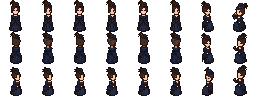
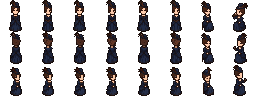
마감재 18종 추가, 옆모습 걷는 방향 수정
- 바닥 +7 (자갈 포석, 헤링본 벽돌, 쪽모이 원목, 육각 타일, 증기 그레이팅, 페르시아 융단, 황동 모자이크)
- 벽 +6 (녹슨 철판, 줄무늬 벽지, 흰 지하철 타일, 현창 황동벽, 서가 벽, 톱니 장식 벽)
- 천장 +5 (노출 덕트, 황동 압착판, 격자 우물천장, 톱니 천장, 하늘 프레스코), 천장도 변형 2종
- 일부 생성 시트의 옆모습이 왼쪽을 보고 있어 NPC 가 뒷걸음질쳤다.
  import_chars 가 얼굴 방향을 재서 옆모습을 자동으로 오른쪽으로 맞추고,
  판정이 안 맞는 대장장이(남)는 수동 지정

Claude-Session: https://claude.ai/code/session_01GLddWFGhu19UdYDuzdKUFY

Changed region(s): [[0.9062, 0.6562, 0.9688, 0.9688], [0.7812, 0.7188, 0.8438, 1.0]]

diff --git a/js/sprites.js b/js/sprites.js
@@ -135,6 +135,70 @@ const FLOOR_ART = {
     while (y < 16) { P.p(x, y, PAL.s3); if (hash(x, y, v) > 0.5) P.p(x + 1, y, PAL.cr0); x += hash(x, y, 77) > 0.5 ? 1 : -1; x = (x + 16) % 16; y++; }
     P.r(0, 15, 16, 1, PAL.cr0); P.r(15, 0, 1, 16, PAL.cr0);
   },
+  // ── 추가 바닥재 ──
+  cobble(P, v) {
+    P.r(0, 0, 16, 16, '#3e3530');
+    for (let row = 0; row < 4; row++) {
+      const off = (row + v) % 2 ? 2 : 0;
+      for (let x = -off; x < 16; x += 4) {
+        const c = ['#7a6a5c', '#8a7866', '#6c5e52', '#94826e'][Math.floor(hash(x + 7, row, v + 3) * 4)];
+        const x0 = Math.max(0, x), w = Math.min(3, 3 + x) - (x0 - x);
+        if (w > 0) { P.r(x0, row * 4, w, 3, c); P.p(x0, row * 4, '#a8967e'); }
+      }
+    }
+  },
+  brickfloor(P, v) {
+    P.r(0, 0, 16, 16, '#4a2a20');
+    for (let y = 0; y < 16; y += 4) for (let x = 0; x < 16; x += 4) {
+      const vert = ((x + y) / 4) % 2 === 0;
+      const c = ['#9a4a32', '#a85a3c', '#8a3e2a'][Math.floor(hash(x, y, v + 11) * 3)];
+      if (vert) { P.r(x, y, 3, 1, c); P.r(x, y + 1, 3, 2, c); } else { P.r(x, y, 1, 3, c); P.r(x + 1, y, 2, 3, c); }
+      P.p(x, y, '#c07050');
+    }
+  },
+  parquet(P) {
+    // 바구니 짜임: 4x4 블록마다 결 방향이 바뀐다
+    for (let by = 0; by < 4; by++) for (let bx = 0; bx < 4; bx++) {
+      const h = (bx + by) % 2 === 0, base = (bx * 3 + by) % 2 ? PAL.w3 : '#9a6a3e';
+      P.r(bx * 4, by * 4, 4, 4, base);
+      for (let k = 0; k < 4; k += 2) h ? P.r(bx * 4, by * 4 + k, 4, 1, PAL.w2) : P.r(bx * 4 + k, by * 4, 1, 4, PAL.w2);
+      P.p(bx * 4 + 3, by * 4 + 3, PAL.w0);
+    }
+  },
+  hextile(P) {
+    // 8x8 팔각 타일을 줄마다 반 칸 어긋나게 → 육각 무늬처럼 보인다
+    for (let y = 0; y < 16; y++) for (let x = 0; x < 16; x++) {
+      const row = y >> 3, lx = (x + (row % 2) * 4) % 8, ly = y % 8;
+      const edge = (ly === 0 && lx >= 2 && lx <= 5) || (lx === 0 && ly >= 2 && ly <= 5) ||
+        (lx + ly === 1) || (lx - ly === 6) || (ly - lx === 6) || (lx + ly === 13) || (lx === 7 && ly === 7) || (lx === 0 && ly === 0);
+      const tone = ((x + (row % 2) * 4) >> 3) % 3 === 0 ? '#c9d8cc' : PAL.cr1;
+      P.p(x, y, edge ? '#7a6e5c' : (ly <= 2 && lx >= 2 && lx <= 4 ? PAL.cr2 : tone));
+    }
+  },
+  steamgrate(P) {
+    P.r(0, 0, 16, 16, PAL.i0);
+    for (let y = 1; y < 16; y += 3) { P.r(1, y, 14, 2, '#2a1610'); P.r(1, y, 14, 1, '#5a2a14'); }
+    P.r(0, 0, 16, 1, PAL.i3); P.r(0, 15, 16, 1, PAL.i1); P.r(0, 0, 1, 16, PAL.i2); P.r(15, 0, 1, 16, PAL.i1);
+    for (let y = 2; y < 16; y += 3) for (let x = 3; x < 15; x += 4) P.p(x, y, PAL.i2);
+    P.p(1, 1, PAL.b3); P.p(14, 1, PAL.b3); P.p(1, 14, PAL.b3); P.p(14, 14, PAL.b3);
+  },
+  rug(P) {
+    P.r(0, 0, 16, 16, '#1e2a4e');
+    P.r(0, 0, 16, 2, PAL.red1); P.r(0, 14, 16, 2, PAL.red1); P.r(0, 0, 2, 16, PAL.red1); P.r(14, 0, 2, 16, PAL.red1);
+    P.r(2, 2, 12, 1, PAL.b2); P.r(2, 13, 12, 1, PAL.b2); P.r(2, 2, 1, 12, PAL.b2); P.r(13, 2, 1, 12, PAL.b2);
+    for (let i = 0; i < 3; i++) { P.p(8 - i, 5 + i, PAL.red2); P.p(7 + i, 5 + i, PAL.red2); P.p(8 - i, 10 - i, PAL.red2); P.p(7 + i, 10 - i, PAL.red2); }
+    P.r(7, 7, 2, 2, PAL.b3);
+    P.noise(3, 3, 10, 10, ['#2a3a62', '#18213e'], 0.15, 21);
+  },
+  mosaic(P) {
+    const cols = [PAL.v2, PAL.b2, PAL.cr2, PAL.v1, PAL.b3];
+    for (let y = 0; y < 16; y += 2) for (let x = 0; x < 16; x += 2) {
+      const d = Math.abs(x - 7) + Math.abs(y - 7);
+      const c = d < 3 ? PAL.b3 : d < 6 ? PAL.v2 : d < 9 ? cols[(x + y) % 3 + 2] : (x + y) % 4 ? PAL.cr1 : PAL.b1;
+      P.r(x, y, 2, 2, c); P.p(x + 1, y + 1, '#00000022');
+    }
+    P.r(0, 15, 16, 1, PAL.b0); P.r(15, 0, 1, 16, PAL.b0);
+  },
 };
 
 // ───────────── 벽 ─────────────
@@ -181,6 +245,51 @@ const WALL_ART = {
     }
     P.r(1, 4, 1, 12, PAL.b1); P.r(14, 4, 1, 12, PAL.b1);
   },
+  // ── 추가 벽 마감 ──
+  rustplate(P) {
+    wallCap(P);
+    P.r(0, 4, 16, 12, PAL.i1);
+    P.noise(0, 4, 16, 12, ['#8a4a22', '#a85e2a', '#6a3418', PAL.i2], 0.45, 33);
+    P.r(0, 9, 16, 1, PAL.i0); P.rivets(1, 5, 15, 5, PAL.i3, PAL.i0); P.rivets(1, 11, 15, 5, PAL.i3, PAL.i0);
+    P.r(5, 10, 1, 4, '#5a2a14'); P.r(11, 5, 1, 3, '#5a2a14');
+  },
+  stripe(P) {
+    wallCap(P);
+    for (let x = 0; x < 16; x++) P.r(x, 4, 1, 8, Math.floor(x / 2) % 2 ? PAL.cr1 : PAL.red1);
+    P.r(0, 4, 16, 1, PAL.b1);
+    P.r(0, 12, 16, 4, PAL.w1); P.r(0, 12, 16, 1, PAL.w3); P.r(4, 13, 1, 3, PAL.w0); P.r(11, 13, 1, 3, PAL.w0);
+  },
+  subway(P) {
+    wallCap(P);
+    P.r(0, 4, 16, 12, '#a8a29a');
+    for (let row = 0; row < 4; row++) {
+      const y = 4 + row * 3, off = row % 2 ? 4 : 0;
+      for (let x = -off; x < 16; x += 8) { const x0 = Math.max(0, x); P.r(x0, y, Math.min(7, 7 + x) - (x0 - x), 2, PAL.wh); P.p(x0 + 1, y, '#ffffff'); }
+    }
+    P.r(0, 14, 16, 2, '#2e5a52'); P.r(0, 14, 16, 1, '#4f8a7a');
+  },
+  porthole(P) {
+    wallCap(P);
+    P.r(0, 4, 16, 12, PAL.b1); P.r(0, 4, 16, 1, PAL.b3);
+    P.disc(8, 10, 5, PAL.k); P.disc(8, 10, 4, PAL.b2); P.disc(8, 10, 3, '#4a7fb5'); P.r(6, 8, 2, 1, PAL.bl3); P.p(7, 9, PAL.wh);
+    for (let a = 0; a < 6; a++) { const ang = a * Math.PI / 3; P.p(Math.round(8 + Math.cos(ang) * 5), Math.round(10 + Math.sin(ang) * 5), PAL.b4); }
+    P.p(1, 5, PAL.b4); P.p(14, 5, PAL.b4); P.p(1, 14, PAL.b4); P.p(14, 14, PAL.b4);
+  },
+  bookwall(P) {
+    wallCap(P);
+    P.r(0, 4, 16, 12, PAL.w0);
+    const books = [PAL.red2, PAL.g2, PAL.bl1, PAL.b2, PAL.pu1, PAL.c2, PAL.cr1];
+    [4, 10].forEach((y, r) => {
+      for (let x = 0; x < 16; x++) if (hash(x, r, 5) > 0.12) P.r(x, y + (hash(x, r, 2) > 0.7 ? 1 : 0), 1, 5 - (hash(x, r, 2) > 0.7 ? 1 : 0), books[Math.floor(hash(x, r, 9) * books.length)]);
+      P.r(0, y + 5, 16, 1, PAL.w2);
+    });
+  },
+  gearwall(P) {
+    wallCap(P);
+    P.r(0, 4, 16, 12, PAL.w1); P.r(0, 4, 16, 1, PAL.w3);
+    const gear = (cx, cy, r, c) => { for (let a = 0; a < 8; a++) { const ang = a * Math.PI / 4; P.p(Math.round(cx + Math.cos(ang) * (r + 1)), Math.round(cy + Math.sin(ang) * (r + 1)), c); } P.disc(cx, cy, r, c); P.p(cx, cy, PAL.w0); };
+    gear(5, 9, 3, PAL.b2); gear(11, 12, 2, PAL.c2); gear(12, 6, 1, PAL.b1);
+  },
 };
 function brickWall(P, cols, mortar, v) {
   wallCap(P);
@@ -223,6 +332,37 @@ const CEIL_ART = {
     P.r(0, 0, 16, 7, PAL.bl3);
     P.noise(0, 0, 16, 16, [PAL.wh], 0.02, 3);
     P.r(0, 7, 16, 1, PAL.i1); P.r(7, 0, 1, 16, PAL.i1); P.r(0, 15, 16, 1, PAL.i1); P.r(15, 0, 1, 16, PAL.i1);
+  },
+  // ── 추가 천장 ──
+  duct(P) {
+    P.r(0, 0, 16, 16, '#24201c');
+    P.r(0, 3, 16, 5, PAL.i2); P.r(0, 3, 16, 1, PAL.i4); P.r(0, 7, 16, 1, PAL.i0);
+    for (let x = 2; x < 16; x += 5) P.r(x, 3, 1, 5, PAL.i1);
+    P.r(11, 9, 3, 7, PAL.c1); P.r(11, 9, 1, 7, PAL.c3);
+  },
+  coffered(P) {
+    P.r(0, 0, 16, 16, PAL.w2);
+    P.r(2, 2, 12, 12, PAL.w0); P.r(3, 3, 10, 10, PAL.w1); P.r(4, 4, 8, 8, '#4a3020');
+    P.r(2, 2, 12, 1, PAL.w4); P.r(2, 2, 1, 12, PAL.w3); P.p(8, 8, PAL.b3);
+  },
+  brassplate(P) {
+    P.r(0, 0, 16, 16, PAL.b1);
+    for (let y = 0; y < 16; y += 4) for (let x = (y / 4) % 2 * 2; x < 16; x += 4) { P.r(x, y, 2, 2, PAL.b2); P.p(x, y, PAL.b3); }
+    P.r(0, 15, 16, 1, PAL.b0); P.r(15, 0, 1, 16, PAL.b0);
+  },
+  gearceil(P) {
+    P.r(0, 0, 16, 16, PAL.c1);
+    P.noise(0, 0, 16, 16, [PAL.c0, PAL.c2], 0.15, 41);
+    for (let a = 0; a < 8; a++) { const ang = a * Math.PI / 4; P.r(Math.round(8 + Math.cos(ang) * 6) - 1, Math.round(8 + Math.sin(ang) * 6) - 1, 2, 2, PAL.b2); }
+    P.ring(8, 8, 5, PAL.b2); P.disc(8, 8, 2, PAL.b3); P.p(8, 8, PAL.b0);
+  },
+  fresco(P, v) {
+    P.r(0, 0, 16, 16, '#7ab0d8'); P.r(0, 0, 16, 5, '#5a94c4');
+    // 구름
+    const cx = 4 + Math.floor(hash(v, 3, 7) * 8);
+    P.ellipse(cx, 9, 4, 2, '#f2f4f6'); P.ellipse(cx + 3, 8, 3, 2, '#ffffff'); P.r(cx - 3, 10, 8, 1, '#d6dde4');
+    P.r(0, 0, 16, 1, PAL.b2); P.r(0, 15, 16, 1, PAL.b2); P.r(0, 0, 1, 16, PAL.b2); P.r(15, 0, 1, 16, PAL.b2);
+    P.p(1, 1, PAL.b4); P.p(14, 14, PAL.b4);
   },
 };
 
@@ -660,7 +800,7 @@ const Sprites = {
 
   floor(id, v = 0) { return this._build(`floor_${id}_${v}`, 16, 16, P => FLOOR_ART[id](P, v)).canvas; },
   wall(id, v = 0) { return this._build(`wall_${id}_${v}`, 16, 16, P => WALL_ART[id](P, v)).canvas; },
-  ceil(id) { return this._build(`ceil_${id}`, 16, 16, P => CEIL_ART[id](P)).canvas; },
+  ceil(id, v = 0) { return this._build(`ceil_${id}_${v}`, 16, 16, P => CEIL_ART[id](P, v)).canvas; },
   street(v = 0) { return this._build(`street_${v}`, 16, 16, P => streetArt(P, v)).canvas; },
   icon(id) { return this._build(`icon_${id}`, 9, 9, P => drawIcon(P, id)).canvas; },
 

diff --git a/js/data.js b/js/data.js
@@ -26,6 +26,13 @@ const DATA = {
     brassgrid:  { name: '황동 격자 철판', cost: 55, appeal: 3, lv: 3 },
     carpet:     { name: '진홍 카펫',      cost: 50, appeal: 3, lv: 3 },
     marble:     { name: '대리석',         cost: 80, appeal: 4, lv: 5 },
+    cobble:     { name: '자갈 포석',      cost: 18, appeal: 1, lv: 1 },
+    brickfloor: { name: '헤링본 벽돌',    cost: 25, appeal: 1, lv: 1 },
+    parquet:    { name: '쪽모이 원목',    cost: 45, appeal: 3, lv: 2 },
+    hextile:    { name: '육각 타일',      cost: 50, appeal: 3, lv: 3 },
+    steamgrate: { name: '증기 그레이팅',   cost: 60, appeal: 3, lv: 3 },
+    rug:        { name: '페르시아 융단',   cost: 70, appeal: 4, lv: 4 },
+    mosaic:     { name: '황동 모자이크',   cost: 95, appeal: 5, lv: 6 },
   },
 
   // 벽 마감재 (외곽 벽 타일당)
@@ -37,6 +44,12 @@ const DATA = {
     rivet:      { name: '리벳 철판',      cost: 50, appeal: 2, lv: 2 },
     verdigris:  { name: '녹청 구리판',     cost: 70, appeal: 3, lv: 4 },
     stained:    { name: '스테인드글라스 창', cost: 110, appeal: 4, lv: 5 },
+    rustplate:  { name: '녹슨 철판',      cost: 25, appeal: 1, lv: 1 },
+    stripe:     { name: '줄무늬 벽지',     cost: 35, appeal: 2, lv: 1 },
+    subway:     { name: '흰 지하철 타일',  cost: 40, appeal: 2, lv: 2 },
+    porthole:   { name: '현창 황동벽',     cost: 85, appeal: 3, lv: 3 },
+    bookwall:   { name: '서가 벽',        cost: 80, appeal: 4, lv: 4 },
+    gearwall:   { name: '톱니 장식 벽',    cost: 95, appeal: 4, lv: 5 },
   },
 
   // 천장 마감재 (실내 타일당)
@@ -46,6 +59,11 @@ const DATA = {
     tin:        { name: '주석 엠보 타일',  cost: 30, appeal: 2, lv: 2 },
     copper:     { name: '구리 패널',       cost: 45, appeal: 2, lv: 4 },
     glassdome:  { name: '유리 돔 채광창',  cost: 70, appeal: 3, lv: 5 },
+    duct:       { name: '노출 덕트',       cost: 20, appeal: 1, lv: 1 },
+    brassplate: { name: '황동 압착판',     cost: 50, appeal: 2, lv: 3 },
+    coffered:   { name: '격자 우물천장',   cost: 55, appeal: 3, lv: 3 },
+    gearceil:   { name: '톱니 천장',       cost: 65, appeal: 3, lv: 4 },
+    fresco:     { name: '하늘 프레스코',   cost: 90, appeal: 4, lv: 6 },
   },
 
   // 배관 (타일당)

diff --git a/js/render.js b/js/render.js
@@ -135,7 +135,7 @@ const Render = {
     // 5. 천장 보기
     if (ceilView) {
       g.globalAlpha = 0.93;
-      for (let y = 1; y < H - 1; y++) for (let x = 1; x < W - 1; x++) g.drawImage(Sprites.ceil(s.ceil[Game.idx(x, y)]), x * TILE, y * TILE);
+      for (let y = 1; y < H - 1; y++) for (let x = 1; x < W - 1; x++) g.drawImage(Sprites.ceil(s.ceil[Game.idx(x, y)], Math.floor(hash(x, y, 1) * 2)), x * TILE, y * TILE);
       for (const o of s.objects) if (DATA.objects[o.id].layer === 'ceil') g.drawImage(Sprites.object(o.id).canvas, o.x * TILE, o.y * TILE);
       g.globalAlpha = 1;
     }

diff --git a/tools/import_chars.py b/tools/import_chars.py
@@ -7,7 +7,8 @@
   2) 프레임 번호를 게임 규격(정면/뒷면/옆 × 대기2·걷기4·앉기·동작)에 배치:
        python3 tools/import_chars.py build tools/char_map.json
      매핑 예: {"aviator_m": {"work": "...", "down": [0,1, 0,2,1,3, 4,5], "up": [...], "side": ["24f","24f", 26,27,26,27, 28,29]}}
-     번호 뒤 f = 좌우 반전, s = 앉은 자세 합성(앉기 프레임이 없을 때). 옆모습은 오른쪽을 보게 맞춘다.
+     번호 뒤 f = 좌우 반전, s = 앉은 자세 합성(앉기 프레임이 없을 때).
+     옆모습 줄은 얼굴 방향을 재서 왼쪽을 보는 프레임을 자동으로 뒤집는다 (끄려면 "auto_face": false).
 """
 import json, os, sys
 import numpy as np
@@ -184,6 +185,23 @@ def crisp(im, colors=28):
     return Image.fromarray(a)
 
 
+def facing(im):
+    """옆모습 방향 추정: 머리 영역에서 피부색 픽셀이 머리 중심보다 오른쪽이면 +, 왼쪽이면 −. 모르면 0."""
+    a = np.asarray(im).astype(int)
+    op = a[..., 3] > 0
+    if op.sum() < 20:
+        return 0.0
+    ys, xs = np.where(op)
+    top, h = ys.min(), ys.max() - ys.min()
+    head = op.copy(); head[top + int(h * 0.45):] = False
+    r, g, b = a[..., 0], a[..., 1], a[..., 2]
+    skin = head & (r > 170) & (g > 110) & (b > 70) & (r - g > 15) & (r - g < 90) & (r - b > 45)
+    hx = np.where(head)[1]
+    if skin.sum() < 3 or not len(hx):
+        return 0.0
+    return float(np.where(skin)[1].mean() - (hx.min() + hx.max()) / 2)
+
+
 def build(mapping_path):
     """매핑의 각 항목: work(작업폴더), down/up/side (8칸: 대기2·걷기4·앉기·동작).
     dark: 어두운 디테일 우선 비율(기본 0.22). 그을음·어두운 옷이 많아 뭉개지면 올린다.
@@ -209,6 +227,9 @@ def build(mapping_path):
                         im = im.crop((0, 0, im.width, int(im.height * 0.72)))
                     cache[(idx, flip, sit)] = downscale(im, scale, m.get('dark', 0.22))
                 sp = cache[(idx, flip, sit)]
+                # 옆모습은 반드시 오른쪽을 보게: 왼쪽을 보는 프레임은 자동으로 뒤집는다
+                if face == 'side' and m.get('auto_face', True) and facing(sp) < -0.3:
+                    sp = sp.transpose(Image.FLIP_LEFT_RIGHT)
                 if sp.height > FRAME:
                     sp = sp.crop((0, sp.height - FRAME, sp.width, sp.height))
                 # 발끝(아래) 정렬, 가로 가운데

diff --git a/assets/README.md b/assets/README.md
@@ -105,9 +105,9 @@ python3 tools/import_chars.py build tools/char_map.json
 넣은 뒤 `assets/manifest.js`의 `ASSET_MANIFEST`에 키를 추가하세요.
 
 - **바닥/벽/천장**: 16×16. 키 `floor_<id>_0`, `floor_<id>_1`(변형 2종), `wall_<id>_0`, `wall_<id>_1`, `ceil_<id>`
-  - 바닥 id: `dirt plank herring checker brassgrid carpet marble`
-  - 벽 id: `rawbrick redbrick woodpanel damask rivet verdigris stained`
-  - 천장 id: `beams plaster tin copper glassdome`
+  - 바닥 id: `dirt plank herring checker brassgrid carpet marble cobble brickfloor parquet hextile steamgrate rug mosaic`
+  - 벽 id: `rawbrick redbrick woodpanel damask rivet verdigris stained rustplate stripe subway porthole bookwall gearwall`
+  - 천장 id: `beams plaster tin copper glassdome duct brassplate coffered gearceil fresco` (천장도 변형 2종: `ceil_<id>_0`, `ceil_<id>_1`)
 - **오브젝트**: 키 `obj_<id>`. 가로 = 칸 수×16, 세로는 자유 (위로 솟은 부분 포함, 바닥 정렬)
   - 예: 보일러 `obj_boiler` 32×46, 에스프레소 머신 `obj_espresso` 16×25
   - id 목록: `js/data.js`의 `objects`
